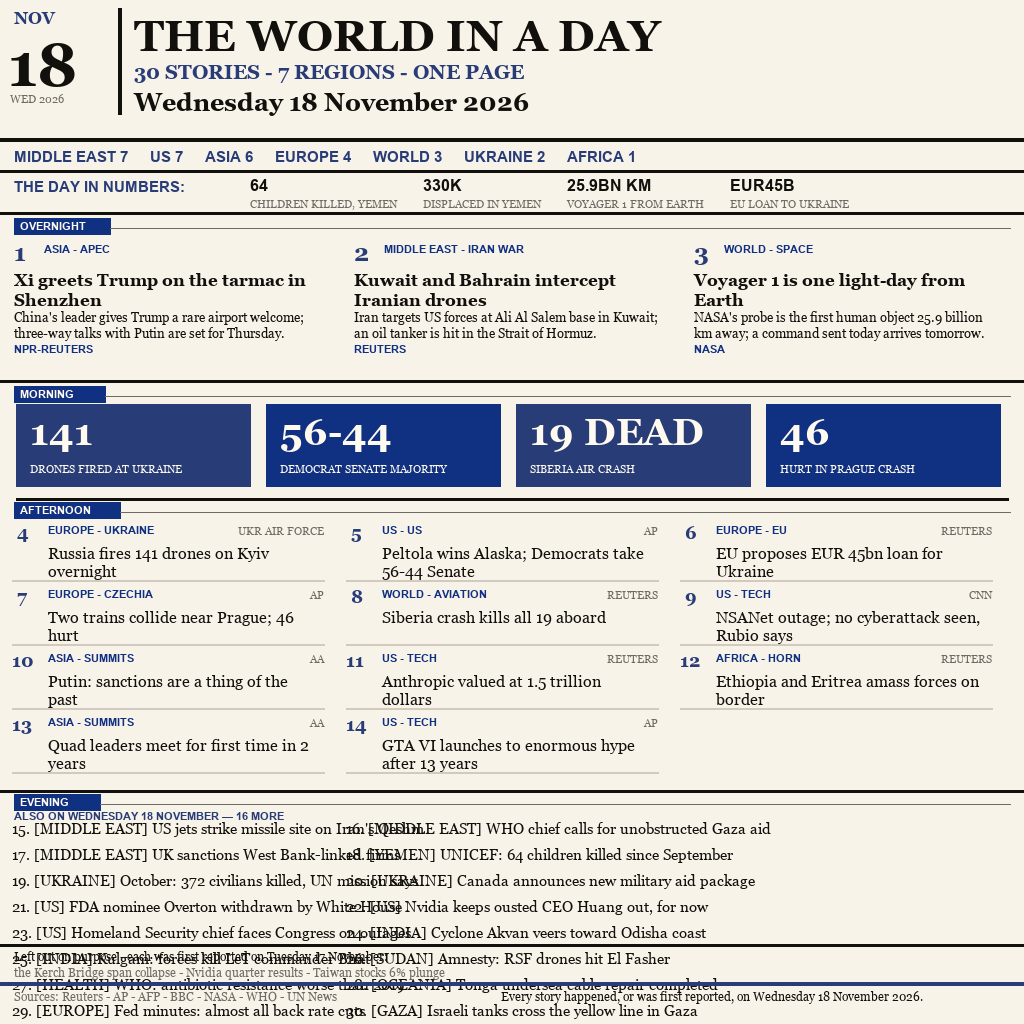
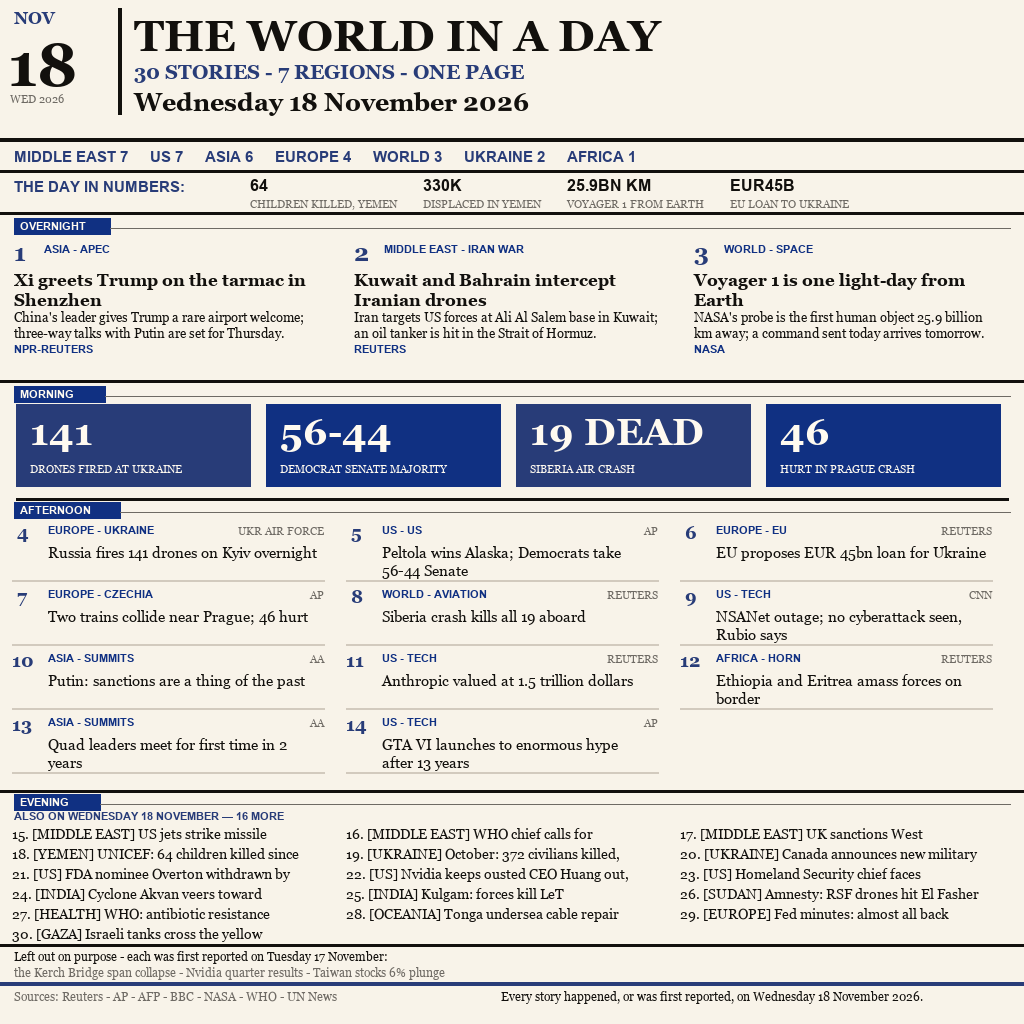
v14 broadsheet entry for news-image-20261118

diff --git a/main.ts b/main.ts
@@ -1,10 +1,10 @@
 /**
  * make.fun news-image contest entrypoint.
  *
- * Copies the repository's rendered poster (entry.png, v14 broadsheet,
- * Wednesday 18 November 2026) to the contest output directory so the grader
- * can collect it. The program performs a single local file copy — no rendering,
- * no network access, and no randomness.
+ * Ships the entry for the worldwide-day-summary digest: a one-page world-news
+ * digest covering Wednesday 18 November 2026, delivered as the committed
+ * entry.png (v14 broadsheet). The program copies those bytes to the contest
+ * output directory for the grader — no rendering, no network, no randomness.
  *
  * Determinism: the source bytes are copied verbatim and the destination is
  * derived only from MAKEFUN_OUTPUT_DIR (default: /output), so two runs
